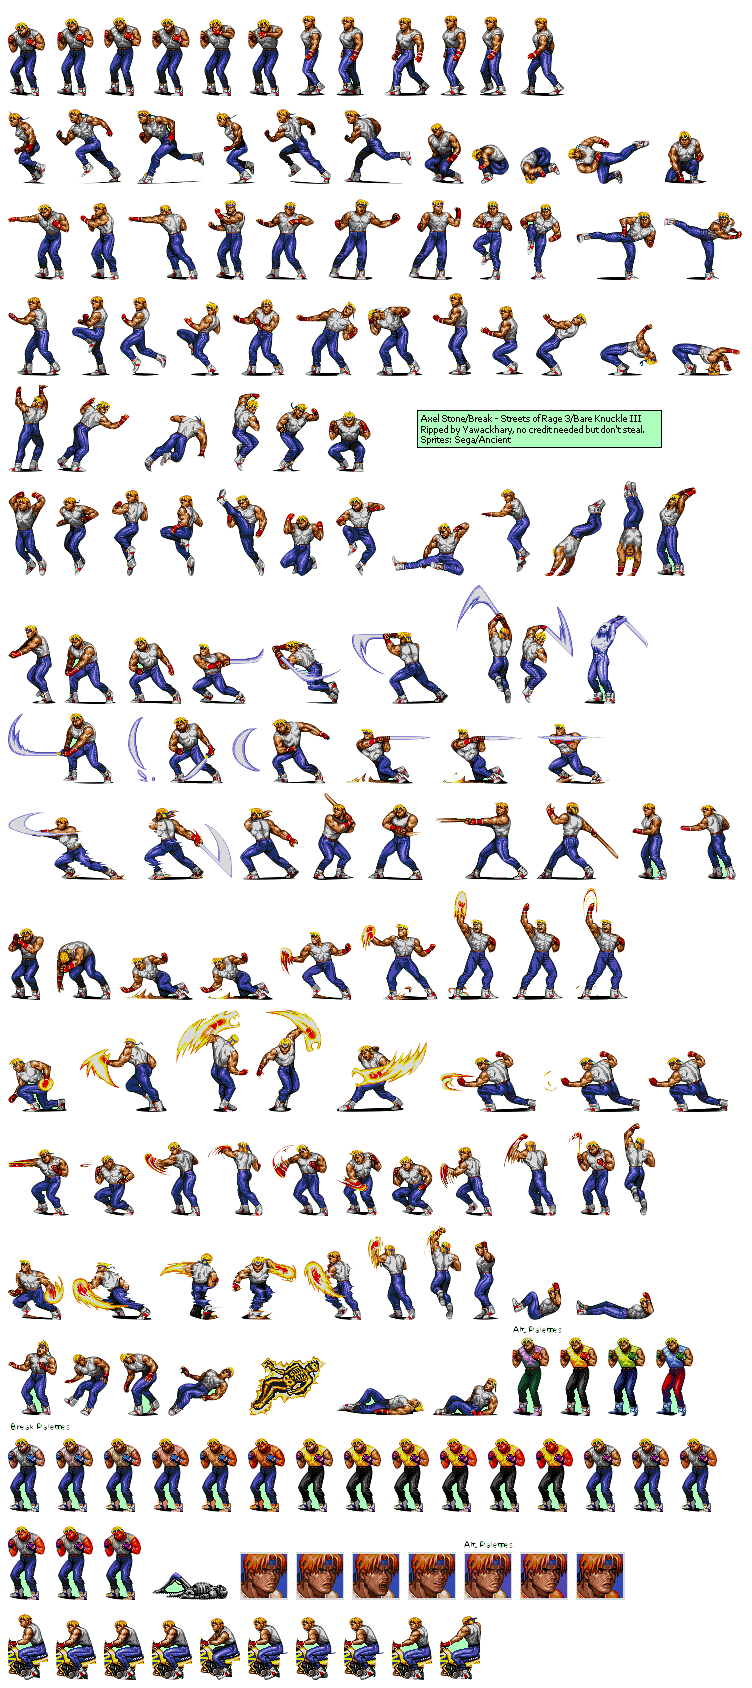
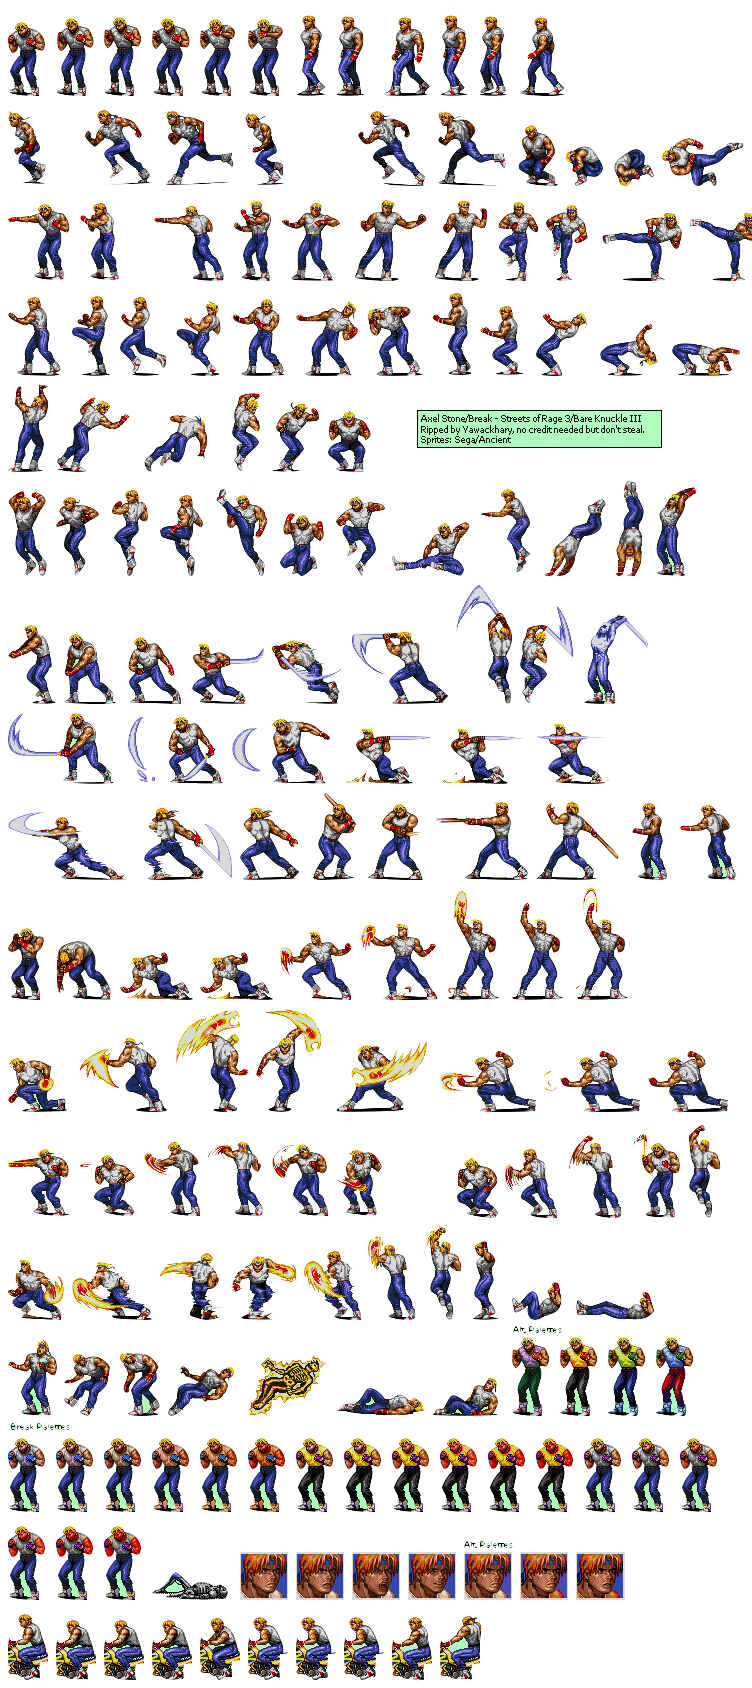
main game

Changed region(s): [[0.0612, 0.0616, 1.0, 0.1848], [0.7646, 0.6469, 0.9481, 0.7393], [0.5199, 0.6777, 0.734, 0.7393]]

diff --git a/street_of_rage/src/main.rs b/street_of_rage/src/main.rs
@@ -677,10 +677,10 @@ fn create_characters() -> HashMap<&'static str, [CharacterStats; 10]> {
             CharacterStats { action: UP.clone(), x: 46.0, y: 100.0, column: 6, row: 1, offset: Vec2::new(290.0, 0.0) },
             CharacterStats { action: DOWN_MOVE.clone(), x: 46.0, y: 100.0, column: 6, row: 1, offset: Vec2::new(290.0, 0.0) },
             CharacterStats { action: DOWN.clone(), x: 46.0, y: 100.0, column: 6, row: 1, offset: Vec2::new(290.0, 0.0) },
-            CharacterStats { action: FIGHT.clone(), x: 56.0, y: 80.0, column: 6, row: 1, offset: Vec2::new(0.0, 185.0) },
+            CharacterStats { action: FIGHT.clone(), x: 66.5, y: 100.0, column: 6, row: 1, offset: Vec2::new(5.0, 1124.0) },
             CharacterStats { action: HIT.clone(), x: 65.0, y: 75.0, column: 2, row: 1, offset: Vec2::new(0.0, 560.0) },
             CharacterStats { action: DEAD.clone(), x: 80.0, y: 75.0, column: 4, row: 1, offset: Vec2::new(140.0, 560.0) },
-            CharacterStats { action: RUN.clone(), x: 55.0, y: 65.0, column: 4, row: 1, offset: Vec2::new(0.0, 100.0) },
+            CharacterStats { action: RUN.clone(), x: 80.0, y: 85.0, column: 4, row: 1, offset: Vec2::new(5.0, 100.0) },
         ]),
     ])
 }
